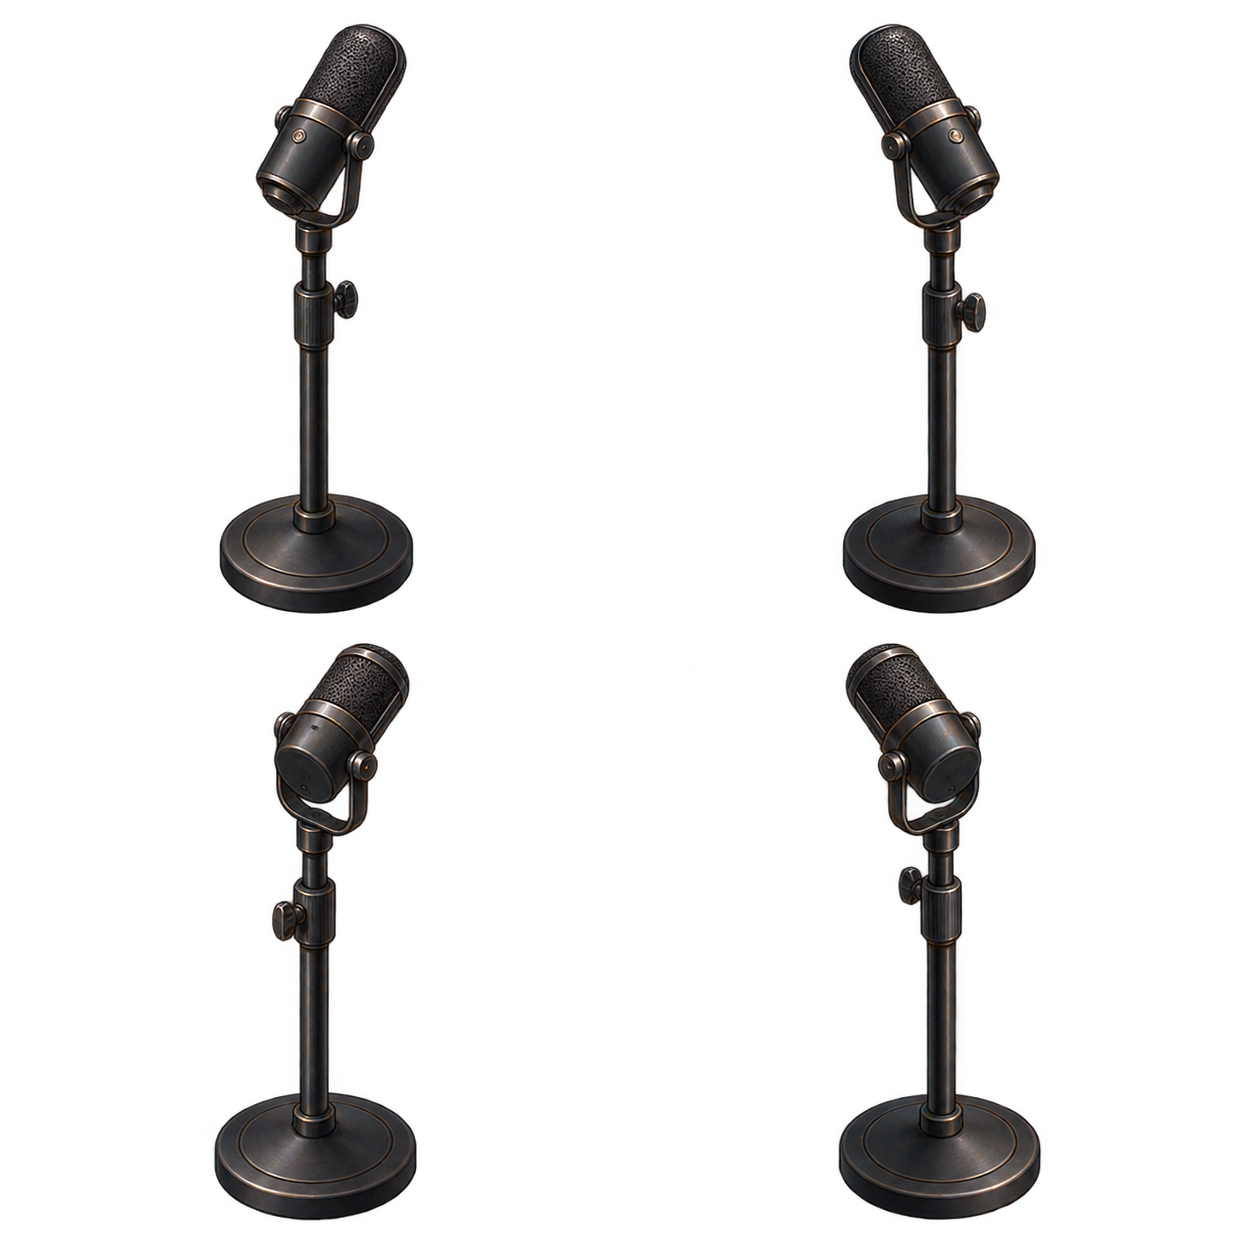
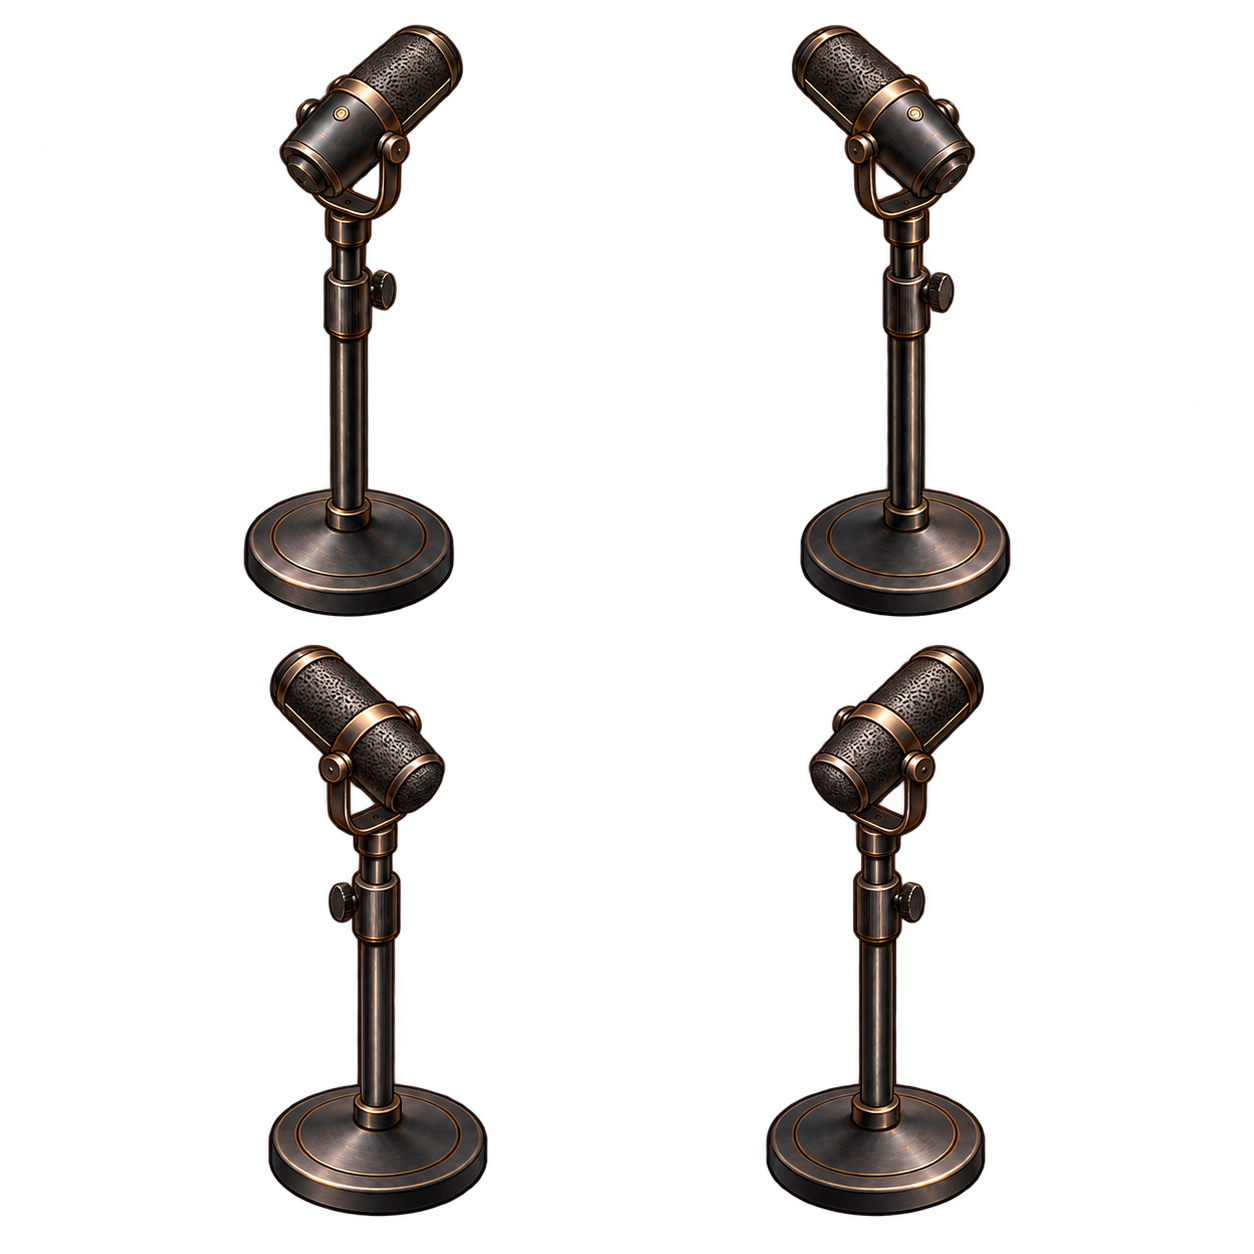
Correct front microphone rotations with opposite capsule tips

Changed region(s): [[0.1555, 0.0, 0.4043, 0.9952], [0.5909, 0.0, 0.8397, 0.9952]]

diff --git a/docs/games/ast-home/index.html b/docs/games/ast-home/index.html
@@ -3,4 +3,4 @@
 <body><header><strong>MY HOME <small>우리 집 꾸미기</small></strong><div><span class="ast-balance"><img class="ast-coin" src="assets/optimized/ast-coin-small-v1.webp" alt=""><span id="wallet">잔액 확인 중…</span></span><button id="retrySync" hidden>다시 연결</button><button id="shopButton">＋ 아이템 구매</button></div></header>
 <section class="view-toolbar" aria-label="화면 조작"><div class="zoom-group"><span>화면 크기</span><div id="zoomControls" aria-label="화면 확대"><button id="zoomOut" aria-label="축소" disabled>−</button><button id="zoomReset" aria-label="100%로 초기화">100%</button><button id="zoomIn" aria-label="확대">＋</button></div></div></section><main><button id="enterMansion" hidden aria-label="본관 실내로 입장">↳ ENTER</button><canvas id="game" width="1536" height="1024" aria-label="가구를 선택하고 바닥 셀을 눌러 배치하는 거실"></canvas><p id="status" role="status">가구 이미지를 불러오는 중…</p><div id="actions" hidden><span id="furnitureDetails"></span><button id="move">✥ 이동</button><button id="rotateSelected">↻ 회전</button></div><div id="placement" hidden><button id="rotateDraft">↻ 회전</button><button id="confirm"><span>O 확정</span><span class="confirm-cost"><img class="ast-coin" src="assets/optimized/ast-coin-small-v1.webp" alt="아스트"><span id="confirmCost">0</span></span></button><button id="cancel">X 취소</button></div></main>
 <dialog id="shop"><div class="dialogHeading"><h2>가구 구매</h2><button id="closeShop" aria-label="닫기">✕</button></div><p id="shopNotice">가구를 고른 뒤 바닥 셀에 배치하세요. 확정할 때 아스트가 사용됩니다.</p><div id="catalog"></div><small>구매 확정 시 표시된 아스트가 사용됩니다.</small></dialog>
-<script type="module">if(new URLSearchParams(location.search).get("scene")==="mansion"){import("./mansion.js?v=20261020-assets1")}else{import("./game.js?v=20261020-assets1")}</script></body></html>
+<script type="module">if(new URLSearchParams(location.search).get("scene")==="mansion"){import("./mansion.js?v=20261022-mic1")}else{import("./game.js?v=20261020-assets1")}</script></body></html>

diff --git a/docs/games/ast-home/mansion.js b/docs/games/ast-home/mansion.js
@@ -1,4 +1,4 @@
-import {loadAsset,assetUrl,spriteFrames} from './asset-loader.mjs?v=20261020-assets1';
+import {loadAsset,assetUrl,spriteFrames} from './asset-loader.mjs?v=20261022-mic1';
 import {spriteIndex,sourcePoint,pointInClip,drawRegisteredSprite,registeredSprite,transformPoint,tableSurfaceMatrix} from './sprite-geometry.mjs?v=20261019-whole3';
 import {TEST_KEY,readTestState,mountTestTools} from './test-session.mjs';
 import {request} from './ast-bridge.js?v=20261019-house1';
